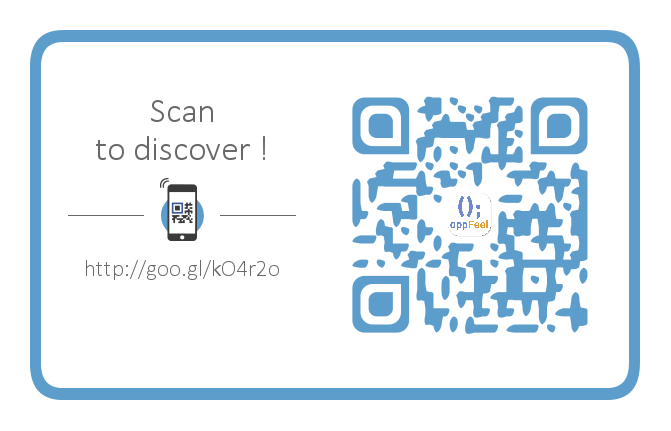
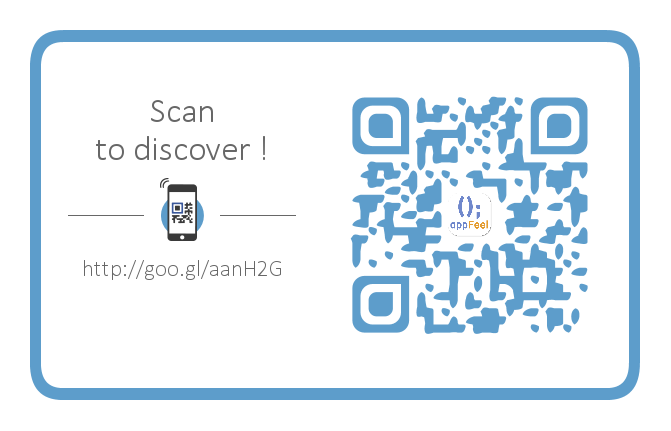
Update documentation and app link

Changed region(s): [[0.5067, 0.2111, 0.8942, 0.7842], [0.1192, 0.6032, 0.4173, 0.6636]]

diff --git a/www/js/index.js b/www/js/index.js
@@ -1,9 +1,9 @@
 /*
  index.js
- Copyright 2014 AppFeel. All rights reserved.
+ Copyright 2015 AppFeel. All rights reserved.
  http://www.appfeel.com
  
- AdMobAds Cordova Plugin (com.admob.google)
+ AdMobAds Cordova Plugin (cordova-admob)
  
  Permission is hereby granted, free of charge, to any person obtaining a copy
  of this software and associated documentation files (the "Software"), to

diff --git a/README.md b/README.md
@@ -1,4 +1,4 @@
-This is a demo project for [Phonegap Vuild AdMob plugin](https://github.com/appfeel/admob-google-cordova).
+This is the demo project for [Phonegap Build AdMob plugin](https://github.com/appfeel/admob-google-cordova).
 
 # Instructions:
 
@@ -7,8 +7,14 @@ This is a demo project for [Phonegap Vuild AdMob plugin](https://github.com/appf
 - Paste the following url into `find existing repo / paste .git repo`: `https://github.com/appfeel/admob-phonegap-build-demo.git`
 - Click on `Pull from .git repository`
 - Click on `Ready to build` button
-- It will fail for ios (as keys are required) but will success for Android
+- It will fail for ios (as your own keys are required) but will success for Android
 
-You can also [click here](http://goo.gl/8gAxlO) or scan this QR from your device to install it (only Android):
+To build iOS app, you should create your own app id and the associated keys. To do so, fork this project and change the id in `config.xml`. In order to avoid collision, we suggest you to be creative and place your company name in between:
 
-[![ScreenShot](demo/qr-cool.png)](http://goo.gl/8gAxlO)
+```xml
+<widget id="com.mypreferredname.admob.test" ...
+```
+
+You can also [click here](http://goo.gl/aanH2G) or scan this QR from your device to install it (only Android):
+
+[![ScreenShot](demo/qr-cool.png)](http://goo.gl/aanH2G)
